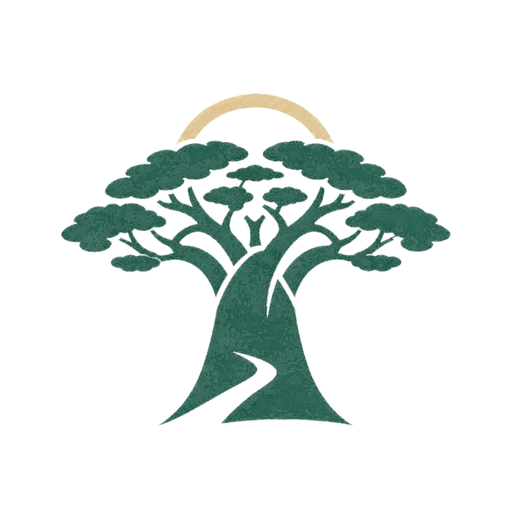
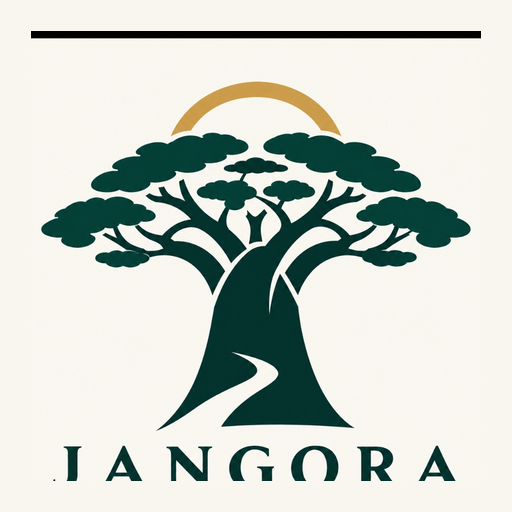
feat: integration des nouveaux emblemes officiels jour et nuit sans traits a droite

diff --git a/components/BrandLogo.tsx b/components/BrandLogo.tsx
@@ -30,9 +30,9 @@ export function BrandLogo({
       className={`relative shrink-0 rounded-xl overflow-hidden flex items-center justify-center transition-colors shadow-2xs ${containerBg} ${className}`}
       aria-label="Logo JANGORA"
     >
-      {/* Symbole Or / Sable pour le mode nuit */}
+      {/* Emblème Mode Nuit (Arbre or & feuillage sauge sur vert nuit) */}
       <img
-        src="/jangora-symbol-gold.png"
+        src={variant === "raw" ? "/emblem-dark-trans.png" : "/emblem-dark-square.png"}
         alt="Jangora"
         className={`${
           variant === "day"
@@ -40,11 +40,11 @@ export function BrandLogo({
             : variant === "night"
             ? "block"
             : "hidden dark:block"
-        } w-[80%] h-[80%] object-contain select-none`}
+        } w-full h-full object-cover select-none`}
       />
-      {/* Symbole Vert Baobab pour le mode jour */}
+      {/* Emblème Mode Jour (Arbre vert baobab & arche dorée sur ivoire) */}
       <img
-        src="/jangora-tree-hd.png"
+        src={variant === "raw" ? "/emblem-light-trans.png" : "/emblem-light-square.png"}
         alt="Jangora"
         className={`${
           variant === "night"
@@ -52,7 +52,7 @@ export function BrandLogo({
             : variant === "day"
             ? "block"
             : "block dark:hidden"
-        } w-[84%] h-[84%] object-contain select-none`}
+        } w-full h-full object-cover select-none`}
       />
     </div>
   );

diff --git a/app/chat/page.tsx b/app/chat/page.tsx
@@ -1056,12 +1056,12 @@ Conforme aux arrêtés du Ministère de l'Enseignement Supérieur (MESRI).`;
           aria-hidden="true"
         >
           <img
-            src="/jangora-symbol-gold.png"
+            src="/emblem-dark-trans.png"
             alt=""
             className="w-full h-full object-contain hidden dark:block"
           />
           <img
-            src="/jangora-symbol-green.png"
+            src="/emblem-light-trans.png"
             alt=""
             className="w-full h-full object-contain block dark:hidden"
           />

diff --git a/public/sw.js b/public/sw.js
@@ -1,11 +1,13 @@
 // Service Worker pour Jangora PWA
-const CACHE_NAME = "jangora-v2";
+const CACHE_NAME = "jangora-v3";
 const STATIC_ASSETS = [
   "/",
   "/chat",
   "/favicon.ico",
-  "/logo.svg",
-  "/logo.png",
+  "/emblem-light-square.png",
+  "/emblem-dark-square.png",
+  "/emblem-light-trans.png",
+  "/emblem-dark-trans.png",
   "/icon.png",
   "/icon-192.png",
   "/apple-icon.png",

diff --git a/scripts/build_pwa_icons.py b/scripts/build_pwa_icons.py
@@ -3,24 +3,27 @@ import shutil
 from PIL import Image, ImageOps, ImageDraw
 import numpy as np
 
-src_path = r'C:\Users\annei\.gemini\antigravity-ide\brain\acdb9d35-84f3-4d8f-bf1f-c4a2f8e5e0ff\.user_uploaded\media_1791987997412.jpg'
-raw_img = Image.open(src_path).convert('RGB')
+light_src = r'C:\Users\annei\.gemini\antigravity-ide\brain\acdb9d35-84f3-4d8f-bf1f-c4a2f8e5e0ff\.user_uploaded\media_1791988746424.jpg'
+dark_src  = r'C:\Users\annei\.gemini\antigravity-ide\brain\acdb9d35-84f3-4d8f-bf1f-c4a2f8e5e0ff\.user_uploaded\media_1791988746495.jpg'
 
-# 1. Save master copy
-raw_img.save('public/jangora-master-icon.jpg', quality=95)
+raw_light = Image.open(light_src).convert('RGB')
+raw_dark  = Image.open(dark_src).convert('RGB')
 
-# 2. Create transparent version
-# Background is nearly white (>= 248)
-arr = np.array(raw_img.convert('RGBA'))
-# Color distance from pure white [255, 255, 255]
-diff = 255 - arr[:, :, :3]
-max_diff = np.max(diff, axis=-1)
-# Create smooth alpha channel
-alpha = np.clip(max_diff * 6, 0, 255).astype(np.uint8)
-arr[:, :, 3] = alpha
-transparent_tree = Image.fromarray(arr)
-transparent_tree.save('public/jangora-tree-hd.png')
-print("Saved public/jangora-tree-hd.png")
+# 1. Save master copies
+raw_light.save('public/jangora-master-icon.jpg', quality=95)
+raw_light.save('public/emblem-light-full.jpg', quality=95)
+raw_dark.save('public/emblem-dark-full.jpg', quality=95)
+
+# Square crops
+crop_size_l = 920
+crop_box_l = (int(512 - crop_size_l/2), int(445 - crop_size_l/2), int(512 + crop_size_l/2), int(445 + crop_size_l/2))
+emblem_light_sq = raw_light.crop(crop_box_l)
+emblem_light_sq.save('public/emblem-light-square.png')
+
+crop_size_d = 880
+crop_box_d = (int(515 - crop_size_d/2), int(420 - crop_size_d/2), int(515 + crop_size_d/2), int(420 + crop_size_d/2))
+emblem_dark_sq = raw_dark.crop(crop_box_d)
+emblem_dark_sq.save('public/emblem-dark-square.png')
 
 # 3. Create PWA and App icon (512x512) with safe-area padding
 # Using clean white background with rounded squircle or solid square for maskable
@@ -37,21 +40,21 @@ def create_pwa_icon(size, transparent_sym, bg_color=(255, 255, 255, 255), paddin
     resized_sym = transparent_sym.resize((new_w, new_h), Image.Resampling.LANCZOS)
     pos_x = (size - new_w) // 2
     pos_y = (size - new_h) // 2
-    canvas.paste(resized_sym, (pos_x, pos_y), resized_sym)
+    canvas.paste(resized_sym, (pos_x, pos_y))
     return canvas
 
-icon_512 = create_pwa_icon(512, transparent_tree, (255, 255, 255, 255), padding_ratio=0.10)
+icon_512 = create_pwa_icon(512, emblem_light_sq, (249, 246, 239, 255), padding_ratio=0.06)
 icon_512.save('public/icon.png')
 icon_512.save('public/logo.png')
 icon_512.save('app/icon.png')
 print("Saved 512x512 icon.png")
 
-icon_192 = create_pwa_icon(192, transparent_tree, (255, 255, 255, 255), padding_ratio=0.10)
+icon_192 = create_pwa_icon(192, emblem_light_sq, (249, 246, 239, 255), padding_ratio=0.06)
 icon_192.save('public/icon-192.png')
 print("Saved 192x192 icon-192.png")
 
 # 4. Apple Touch Icon (180x180)
-apple_180 = create_pwa_icon(180, transparent_tree, (255, 255, 255, 255), padding_ratio=0.10)
+apple_180 = create_pwa_icon(180, emblem_light_sq, (249, 246, 239, 255), padding_ratio=0.06)
 apple_180.save('public/apple-icon.png')
 apple_180.save('app/apple-icon.png')
 print("Saved 180x180 apple-icon.png")
@@ -60,7 +63,7 @@ print("Saved 180x180 apple-icon.png")
 favicon_sizes = [(16, 16), (32, 32), (48, 48), (64, 64), (128, 128), (256, 256)]
 favicon_images = []
 for s in favicon_sizes:
-    fav_im = create_pwa_icon(s[0], transparent_tree, (255, 255, 255, 255), padding_ratio=0.06)
+    fav_im = create_pwa_icon(s[0], emblem_light_sq, (249, 246, 239, 255), padding_ratio=0.04)
     favicon_images.append(fav_im)
 
 favicon_images[0].save(
